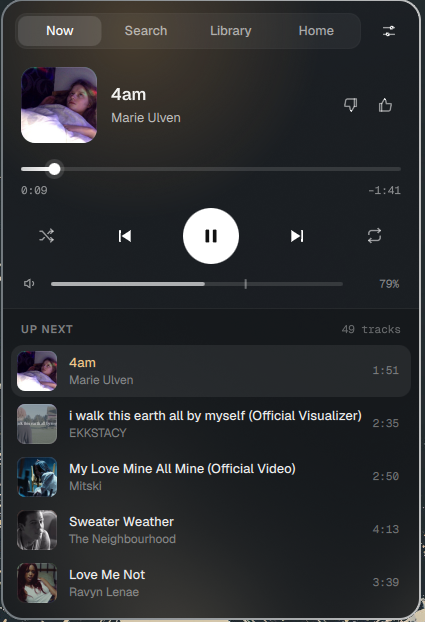
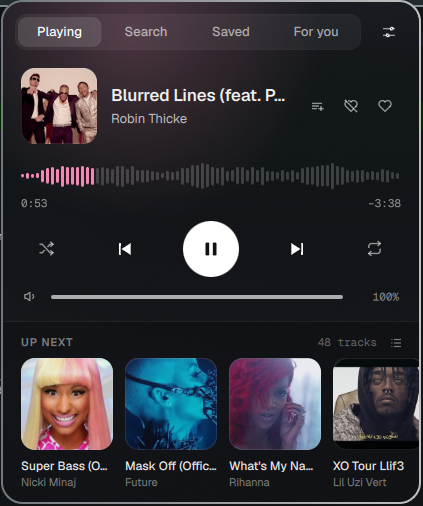
README: new screenshots of the player, search and ytm-tui

diff --git a/README.md b/README.md
@@ -5,13 +5,14 @@ YouTube Music in the [Omarchy](https://omarchy.org/) bar — no app, no browser 
 <img src="docs/pill.png" alt="The now-playing pill in the bar" height="26">
 
 <p>
-  <img src="docs/popup.png" alt="The player popup" width="380">
-  <img src="docs/tui.png" alt="ytm-tui in a terminal" width="430">
+  <img src="docs/popup.png" alt="The player: cover, waveform seek bar, controls and the up-next covers" width="380">
+  <img src="docs/search.png" alt="Search before you type: moods and genres to browse" width="380">
 </p>
 
-A now-playing pill and a player popup with search, your library, home, likes,
-an editable queue, sleep timer, equalizer and volume boost — plus `ytm-tui`, the
-same player in a terminal. Search and radio come from
+A now-playing pill and a player popup that takes its colour from the cover:
+a waveform seek bar, the up-next queue as covers, search with moods and genres
+to browse, your saved music and playlists, likes, a sleep timer, equalizer and
+volume boost — plus `ytm-tui`, the same player in a terminal. Search and radio come from
 [ytmusicapi](https://github.com/sigma67/ytmusicapi); audio plays through
 [mpv](https://mpv.io/) + [yt-dlp](https://github.com/yt-dlp/yt-dlp) in a small
 user service.
@@ -42,8 +43,9 @@ seconds. No Chromium? Use **Paste headers** instead.
 
 - **Playing** — controls, volume and the up-next queue (drag to reorder, hover to
   play next or remove). The radio for the current song keeps the queue going.
-- **Search · Saved · For you** — click a song to play it; albums, artists and
-  playlists open as a page.
+- **Search** — recent searches and mood and genre tiles before you type, then
+  results by type. **Saved · For you** — your library and YouTube's picks.
+  Click a song to play it; albums, artists, playlists and moods open as a page.
 - **Playlists** — the playlist button next to the hearts adds the current song
   to one of your playlists, or to a new one; **Saved → New playlist** makes an
   empty one. New playlists are private. On someone else's playlist (say, from
@@ -55,8 +57,11 @@ where you left it.
 
 ### In a terminal
 
-Run `ytm-tui` (or Settings → **Open in TUI**). The key hints are always at the
-bottom; the main ones:
+<img src="docs/tui.png" alt="ytm-tui: now playing, the queue and the key hints" width="640">
+
+Run `ytm-tui` (or Settings → **Open in TUI**, which opens it as a floating
+window in the middle of the screen). The key hints are always at the bottom;
+the main ones:
 
 | Keys | |
 |---|---|
